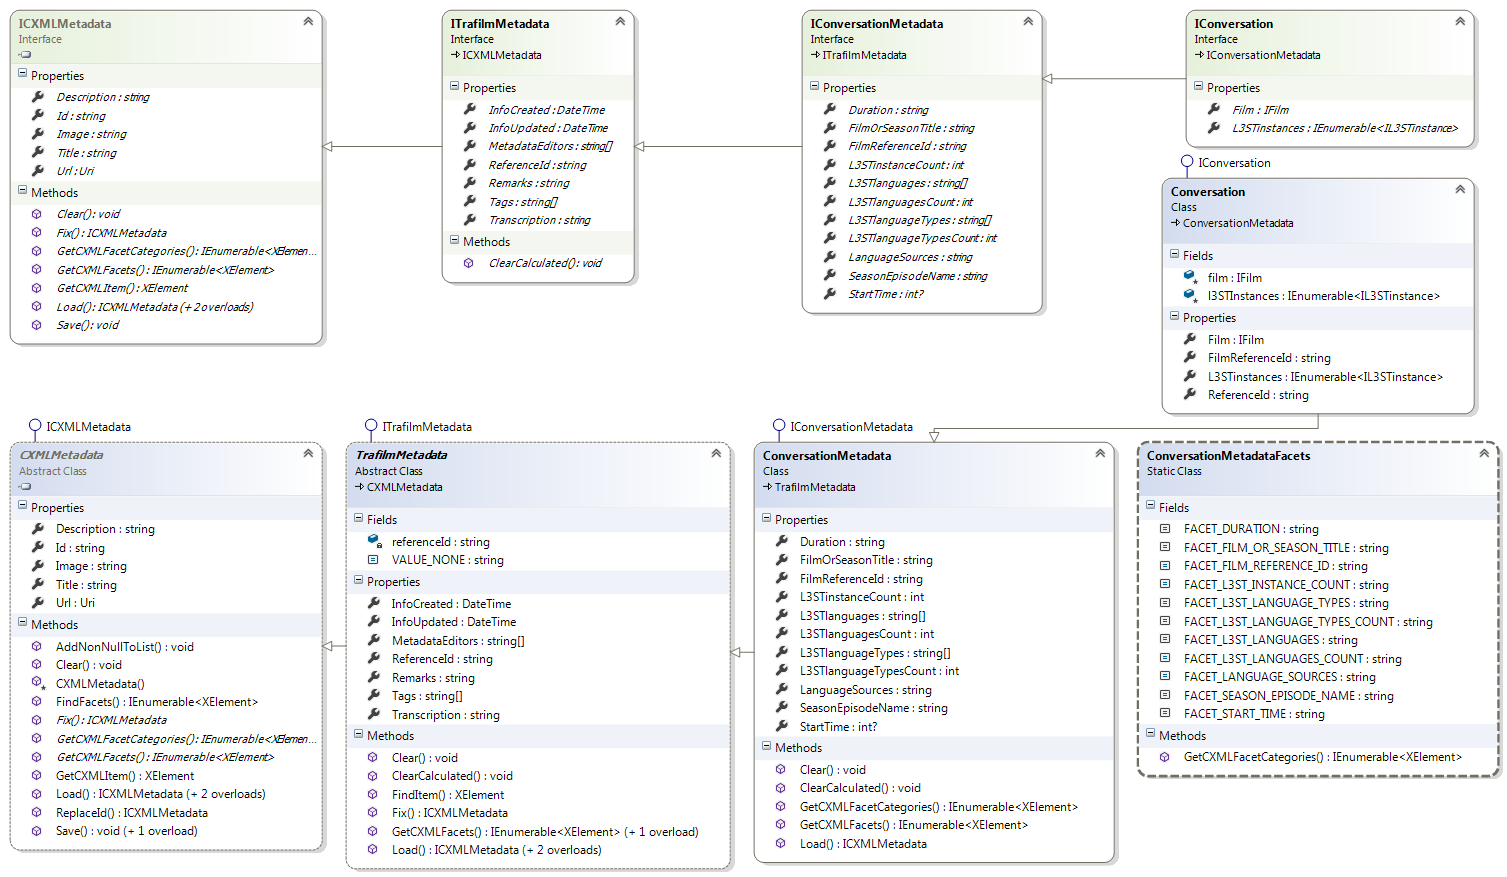
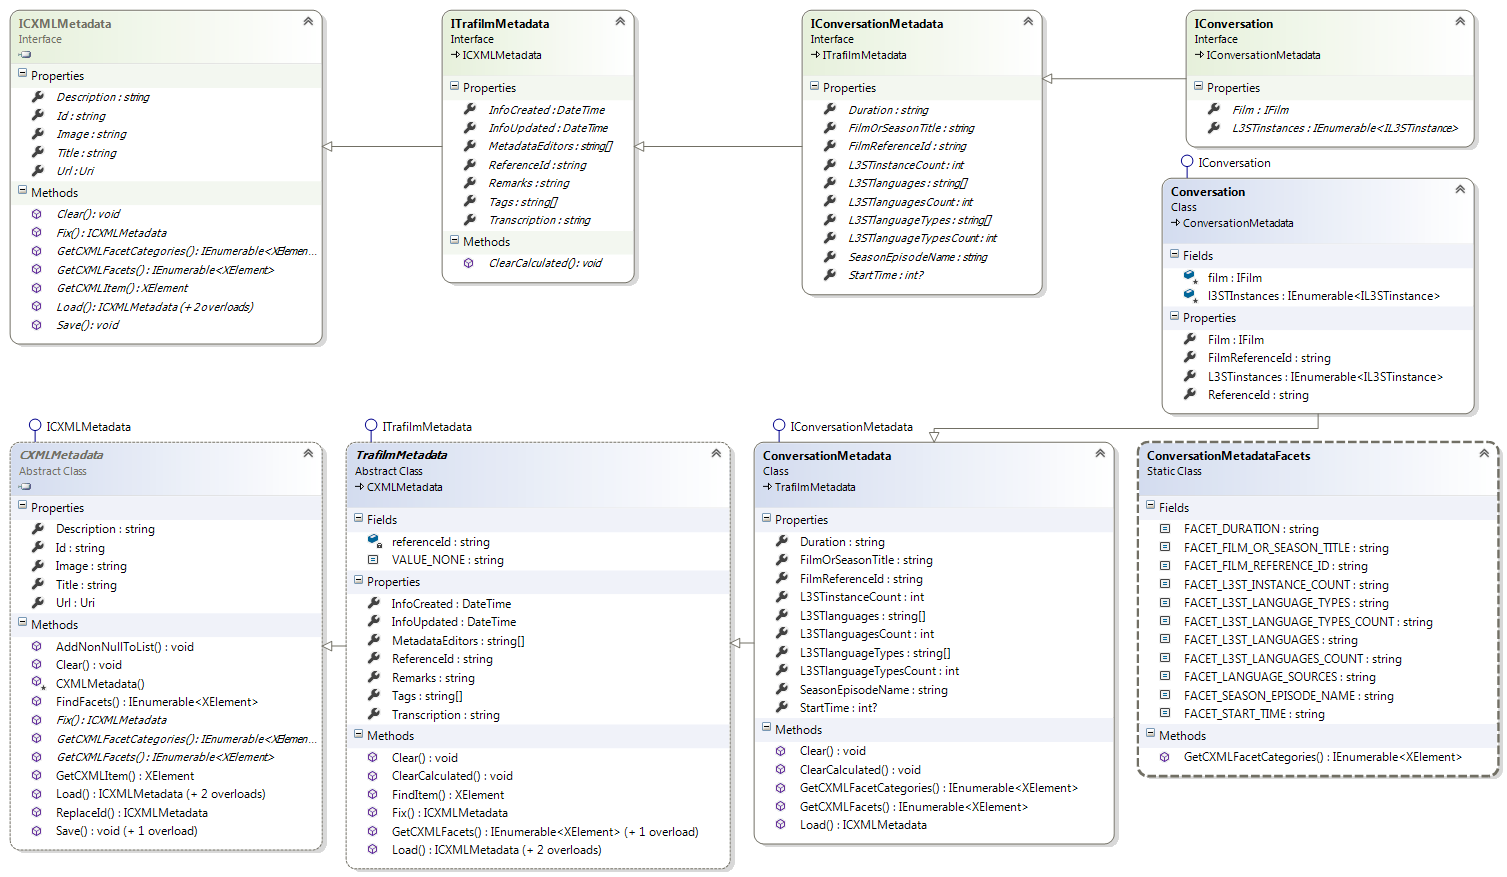
- Removed unused LanguageSources from Conversation

Changed region(s): [[0.499, 0.7697, 0.7485, 1.0], [0.5302, 0.2771, 0.7173, 0.3694]]

diff --git a/Metadata/Conversation/ConversationMetadata.cs b/Metadata/Conversation/ConversationMetadata.cs
@@ -1,6 +1,6 @@
 //Project: Trafilm.Metadata (https://github.com/Zoomicon/Trafilm.Metadata)
 //Filename: ConversationMetadata.cs
-//Version: 20180423
+//Version: 20180509
 
 using Metadata.CXML;
 using Trafilm.Metadata.Models;
@@ -24,7 +24,7 @@ namespace Trafilm.Metadata
     public int? StartTime { get; set; } //in min
     public string Duration { get; set; } //in sec spans
 
-    public string LanguageSources { get; set; }
+    //public string LanguageSources { get; set; } //(NOT USED)
 
     //Linked Data: Calculatable from L3STinstances//
 
@@ -52,7 +52,7 @@ namespace Trafilm.Metadata
       StartTime = null;
       Duration = "";
 
-      LanguageSources = "";
+      //LanguageSources = ""; //(NOT USED)
 
       //note: don't call ClearCalculated here, has been called by base.Clear() already
 
@@ -90,7 +90,7 @@ namespace Trafilm.Metadata
       StartTime = (int?)facets.CXMLFacetNumberValue(ConversationMetadataFacets.FACET_START_TIME);
       Duration = facets.CXMLFacetStringValue(ConversationMetadataFacets.FACET_DURATION);
 
-      LanguageSources = facets.CXMLFacetStringValue(ConversationMetadataFacets.FACET_LANGUAGE_SOURCES);
+      //LanguageSources = facets.CXMLFacetStringValue(ConversationMetadataFacets.FACET_LANGUAGE_SOURCES); //(NOT USED)
 
       //Linked Data: Calculatable from L3STinstances//
 
@@ -131,7 +131,7 @@ namespace Trafilm.Metadata
       AddNonNullToList(facets, CXML.MakeNumberFacet(ConversationMetadataFacets.FACET_START_TIME, StartTime));
       AddNonNullToList(facets, CXML.MakeStringFacet(ConversationMetadataFacets.FACET_DURATION, Duration));
 
-      AddNonNullToList(facets, CXML.MakeStringFacet(ConversationMetadataFacets.FACET_LANGUAGE_SOURCES, LanguageSources));
+      //AddNonNullToList(facets, CXML.MakeStringFacet(ConversationMetadataFacets.FACET_LANGUAGE_SOURCES, LanguageSources)); //(NOT USED)
 
       //Linked Data: Calculatable from L3STinstances//
 

diff --git a/Metadata/Conversation/IConversationMetadata.cs b/Metadata/Conversation/IConversationMetadata.cs
@@ -1,6 +1,6 @@
 //Project: Trafilm.Metadata (https://github.com/Zoomicon/Trafilm.Metadata)
 //Filename: IConversationMetadata.cs
-//Version: 20180423
+//Version: 20180509
 
 using System;
 
@@ -21,7 +21,7 @@ namespace Trafilm.Metadata.Models
     int? StartTime { get; set; } //in min
     string Duration { get; set; } //in sec spans
 
-    string LanguageSources { get; set; }
+    //string LanguageSources { get; set; } //(NOT USED)
 
     //Linked Data: Calculatable from L3STinstances//
 
